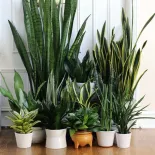
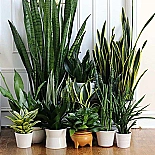
Ảnh resize từ ảnh lớn xuống nhỏ sẽ sắc nét hơn

diff --git a/app/Services/Admin/ProductService.php b/app/Services/Admin/ProductService.php
@@ -1031,13 +1031,54 @@ class ProductService
             try {
                 $image = InterventionImage::make($originalPath);
 
-                // Đảm bảo đúng kích thước WxH, không méo, không phóng to quá mức
-                $image->fit($width, $height, function ($constraint) {
-                    $constraint->upsize();
-                });
+                // Lấy kích thước gốc
+                $originalWidth = $image->width();
+                $originalHeight = $image->height();
 
-                // Ghi đè nếu file đã tồn tại
-                $image->save($targetPath);
+                // Chỉ resize nếu ảnh gốc lớn hơn kích thước đích
+                // Nếu ảnh nhỏ hơn thì không resize (upsize = false)
+                if ($originalWidth > $width || $originalHeight > $height) {
+                    // Resize với giữ nguyên tỷ lệ khung hình, không phóng to
+                    $image->resize($width, $height, function ($constraint) {
+                        $constraint->aspectRatio(); // Giữ tỷ lệ khung hình
+                        $constraint->upsize(); // Không phóng to nếu nhỏ hơn
+                    });
+
+                    // Sau khi resize, nếu cần crop để đạt đúng kích thước (ví dụ: 800x600)
+                    // fit() sẽ crop từ center để đạt đúng kích thước
+                    $image->fit($width, $height, function ($constraint) {
+                        $constraint->upsize();
+                    });
+                } else {
+                    // Ảnh gốc nhỏ hơn hoặc bằng kích thước đích
+                    // Chỉ crop nếu cần để đạt đúng tỷ lệ khung hình
+                    if ($originalWidth !== $width || $originalHeight !== $height) {
+                        $image->fit($width, $height, function ($constraint) {
+                            $constraint->upsize();
+                        });
+                    }
+                }
+
+                // Làm nét ảnh sau khi resize để giảm độ mờ (sharpen từ 0-100)
+                $image->sharpen(15);
+
+                // Xác định quality dựa trên extension để giữ chất lượng cao
+                $quality = 95; // Mặc định 95% chất lượng cao
+                if (in_array(strtolower($extension), ['jpg', 'jpeg'])) {
+                    $quality = 95; // JPEG chất lượng rất cao
+                } elseif (strtolower($extension) === 'webp') {
+                    $quality = 95; // WebP chất lượng rất cao
+                } elseif (strtolower($extension) === 'png') {
+                    // PNG không có quality parameter, nhưng có thể optimize
+                    $quality = null;
+                }
+
+                // Lưu với quality cao để giữ chất lượng tốt nhất
+                if ($quality !== null) {
+                    $image->save($targetPath, $quality);
+                } else {
+                    $image->save($targetPath);
+                }
             } catch (\Throwable $e) {
                 Log::error('generateResizedImagesForSingle failed', [
                     'source' => $relativePath,
